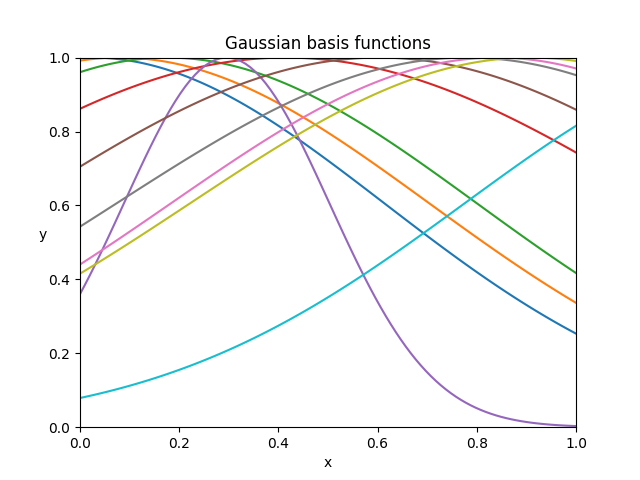
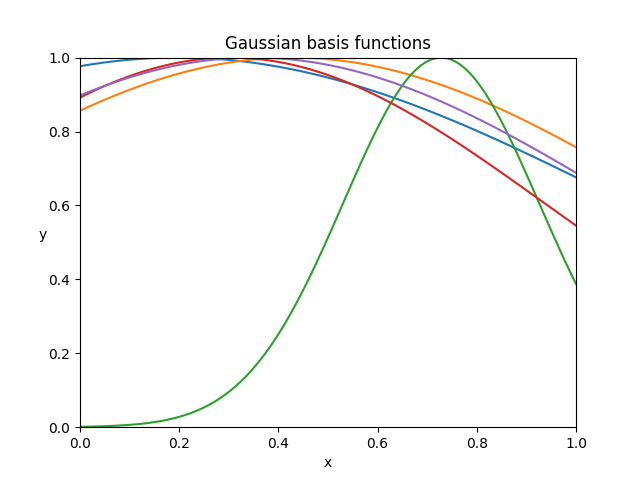
Assg1 fixes

diff --git a/Assg1/sinereg.py b/Assg1/sinereg.py
@@ -5,10 +5,10 @@ import numpy as np
 import matplotlib.pyplot as plt
 
 N = 50
-M = 10
+M = 5
 batch_size = 16
-num_iter = 750
-learning_rate = 0.001
+num_iter = 300
+learning_rate = 0.1
 sigma_noise = 0.1
 
 
@@ -40,7 +40,7 @@ def main():
         y = y_data[ind].flatten()
         with tf.GradientTape() as tape:
             y_hat = model(x)
-            loss = 0.5 * (y - y_hat) ** 2
+            loss = 0.5 * tf.reduce_mean((y - y_hat) ** 2)
 
         gradients = tape.gradient(loss, model.trainable_variables)
         optimizer.apply_gradients(zip(gradients, model.trainable_variables))
